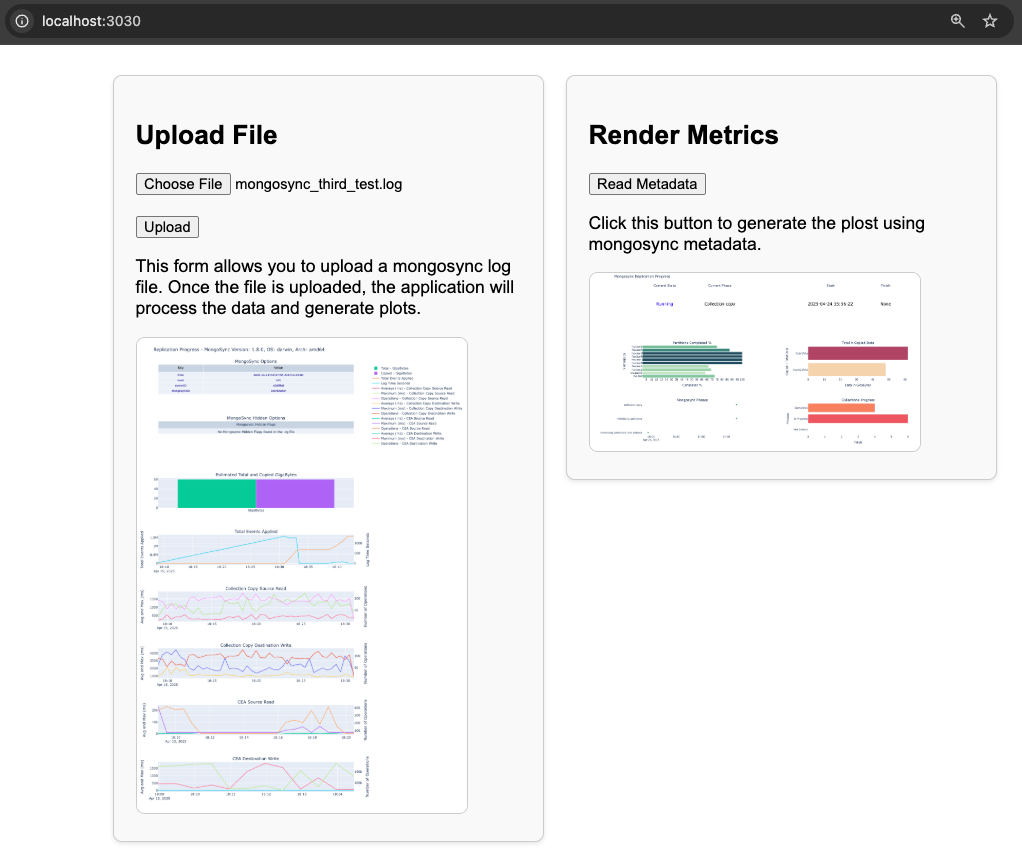
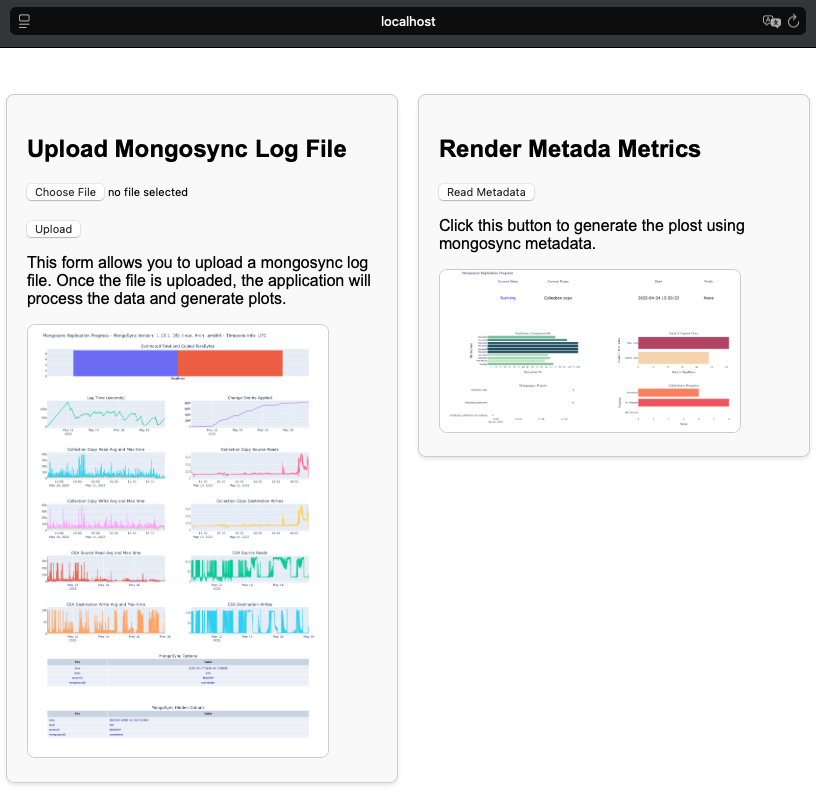
MIGRATION-423

diff --git a/migration/mongosync_metrics/mongosync_plot_logs.py b/migration/mongosync_metrics/mongosync_plot_logs.py
@@ -179,8 +179,8 @@ def upload_file():
                                                             "Lag Time (seconds)", "Change Events Applied",
                                                             "Collection Copy Read Avg and Max time", "Collection Copy Source Reads",
                                                             "Collection Copy Write Avg and Max time", "Collection Copy Destination Writes",
-                                                            "CEA Source Read",
-                                                            "CEA Destination Write",
+                                                            "CEA Source Read Avg and Max time", "CEA Source Reads",
+                                                            "CEA Destination Write Avg and Max time", "CEA Destination Writes",
                                                             "MongoSync Options", 
                                                             "MongoSync Hidden Options",),
                             #specs=[ [{}], #Estimated Total and Copied 
@@ -194,17 +194,12 @@ def upload_file():
                             #        [{"type": "table"}] ])
                             specs=[ [{"colspan": 2}, None], #Estimated Total and Copied 
                                     [{}, {}], #Lag Time and Events Applied
-                                    [{}, {}], #Collection Copy Source Read
+                                    [{}, {}], #Collection Copy Source
                                     [{}, {}], #Collection Copy Destination
-                                    [{"secondary_y": True}, None], 
-                                    [{"secondary_y": True}, None], 
+                                    [{}, {}], #CEA Source
+                                    [{}, {}], #CEA Destination 
                                     [{"colspan": 2, "type": "table"}, None], 
                                     [{"colspan": 2, "type": "table"}, None] ])
-        
-
-                            #specs=[[{}, {}, None, {}, {}],
-                            #   [{"colspan": 2}, None, None, {"colspan": 2}, None],
-                            #   [{"colspan": 2}, None, None, {"colspan": 2}, None]]     
 
         # Add traces
 
@@ -237,17 +232,21 @@ def upload_file():
         fig.add_trace(go.Scatter(x=times, y=CollectionCopyDestinationWrite_numOperations, mode='lines', name='Writes', legendgroup="groupCCDestinationWrite"), row=4, col=2,)
         #fig.update_yaxes(title_text="Number of Writes", secondary_y=True, row=4, col=2)
 
-        fig.add_trace(go.Scatter(x=times, y=CEASourceRead, mode='lines', name='Average read time (ms) during CEA', legendgroup="groupCEASourceRead"), row=5, col=1)
-        fig.add_trace(go.Scatter(x=times, y=CEASourceRead_maximum, mode='lines', name='Maximum read time (ms) during CEA', legendgroup="groupCEASourceRead"), row=5, col=1)
-        fig.add_trace(go.Scatter(x=times, y=CEASourceRead_numOperations, mode='lines', name='Reads during CEA', legendgroup="groupCEASourceRead"), row=5, col=1, secondary_y=True)
-        fig.update_yaxes(title_text="Avg and Max time (ms)", secondary_y=False, row=5, col=1)
-        fig.update_yaxes(title_text="Number of Reads", secondary_y=True, row=5, col=1)
+        #CEA Source
+        fig.add_trace(go.Scatter(x=times, y=CEASourceRead, mode='lines', name='Average time (ms)', legendgroup="groupCEASourceRead"), row=5, col=1)
+        fig.add_trace(go.Scatter(x=times, y=CEASourceRead_maximum, mode='lines', name='Maximum time (ms)', legendgroup="groupCEASourceRead"), row=5, col=1)
+        #fig.update_yaxes(title_text="Avg and Max time (ms)", secondary_y=False, row=5, col=1)
 
-        fig.add_trace(go.Scatter(x=times, y=CEADestinationWrite, mode='lines', name='Average write time (ms) during CEA', legendgroup="groupCEADestinationWrite"), row=6, col=1)
-        fig.add_trace(go.Scatter(x=times, y=CEADestinationWrite_maximum, mode='lines', name='Maximum write time (ms) during CEA', legendgroup="groupCEADestinationWrite"), row=6, col=1)
-        fig.add_trace(go.Scatter(x=times, y=CEADestinationWrite_numOperations, mode='lines', name='Writes during CEA', legendgroup="groupCEADestinationWrite"), row=6, col=1, secondary_y=True)
-        fig.update_yaxes(title_text="Avg and Max time (ms)", secondary_y=False, row=6, col=1)
-        fig.update_yaxes(title_text="Number of Writes", secondary_y=True, row=6, col=1)
+        fig.add_trace(go.Scatter(x=times, y=CEASourceRead_numOperations, mode='lines', name='Reads', legendgroup="groupCEASourceRead"), row=5, col=2)
+        #fig.update_yaxes(title_text="Number of Reads", secondary_y=True, row=5, col=2)
+
+        #CEA Destination
+        fig.add_trace(go.Scatter(x=times, y=CEADestinationWrite, mode='lines', name='Average time (ms)', legendgroup="groupCEADestinationWrite"), row=6, col=1)
+        fig.add_trace(go.Scatter(x=times, y=CEADestinationWrite_maximum, mode='lines', name='Maximum time (ms)', legendgroup="groupCEADestinationWrite"), row=6, col=1)
+        #fig.update_yaxes(title_text="Avg and Max time (ms)", secondary_y=False, row=6, col=1)
+
+        fig.add_trace(go.Scatter(x=times, y=CEADestinationWrite_numOperations, mode='lines', name='Writes during CEA', legendgroup="groupCEADestinationWrite"), row=6, col=2)
+        #fig.update_yaxes(title_text="Number of Writes", secondary_y=True, row=6, col=2)
 
         #Add the Mongosync options
         fig.add_trace(table_trace, row=7, col=1)
